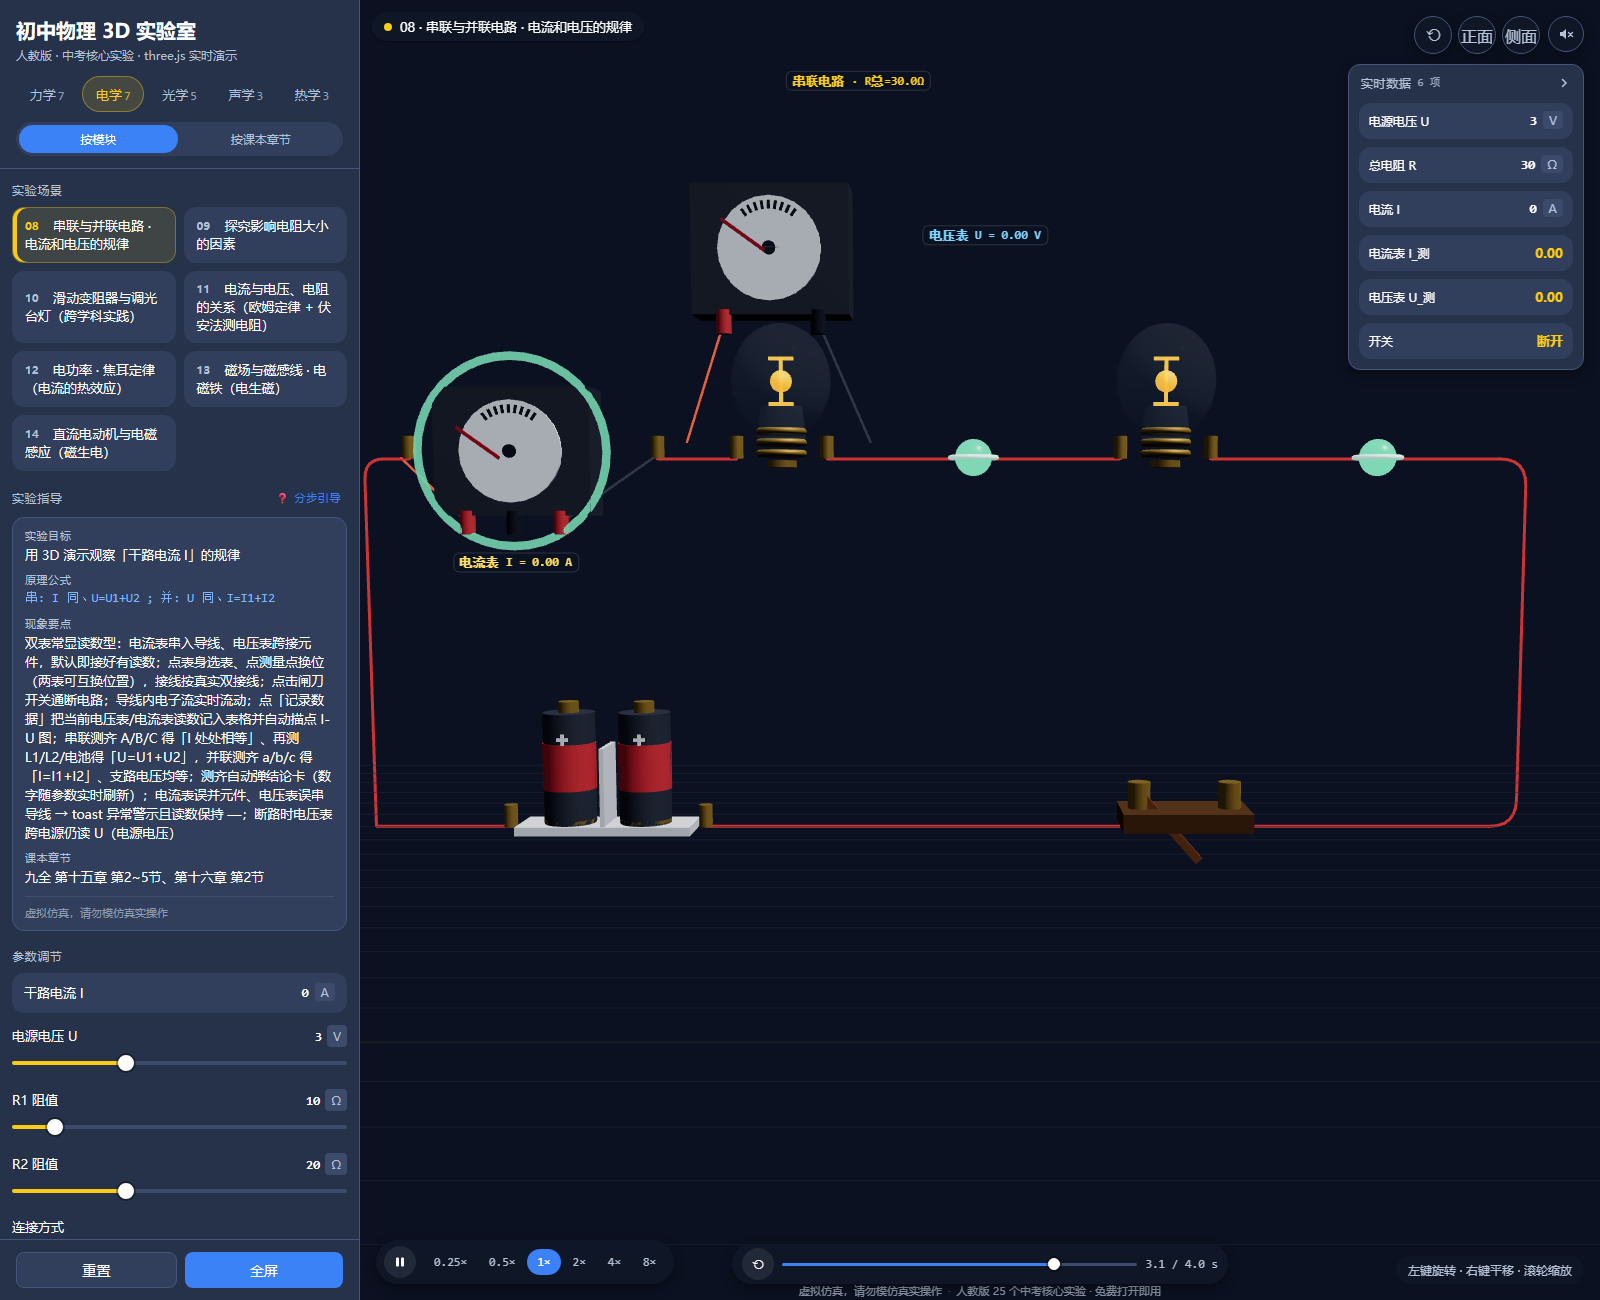
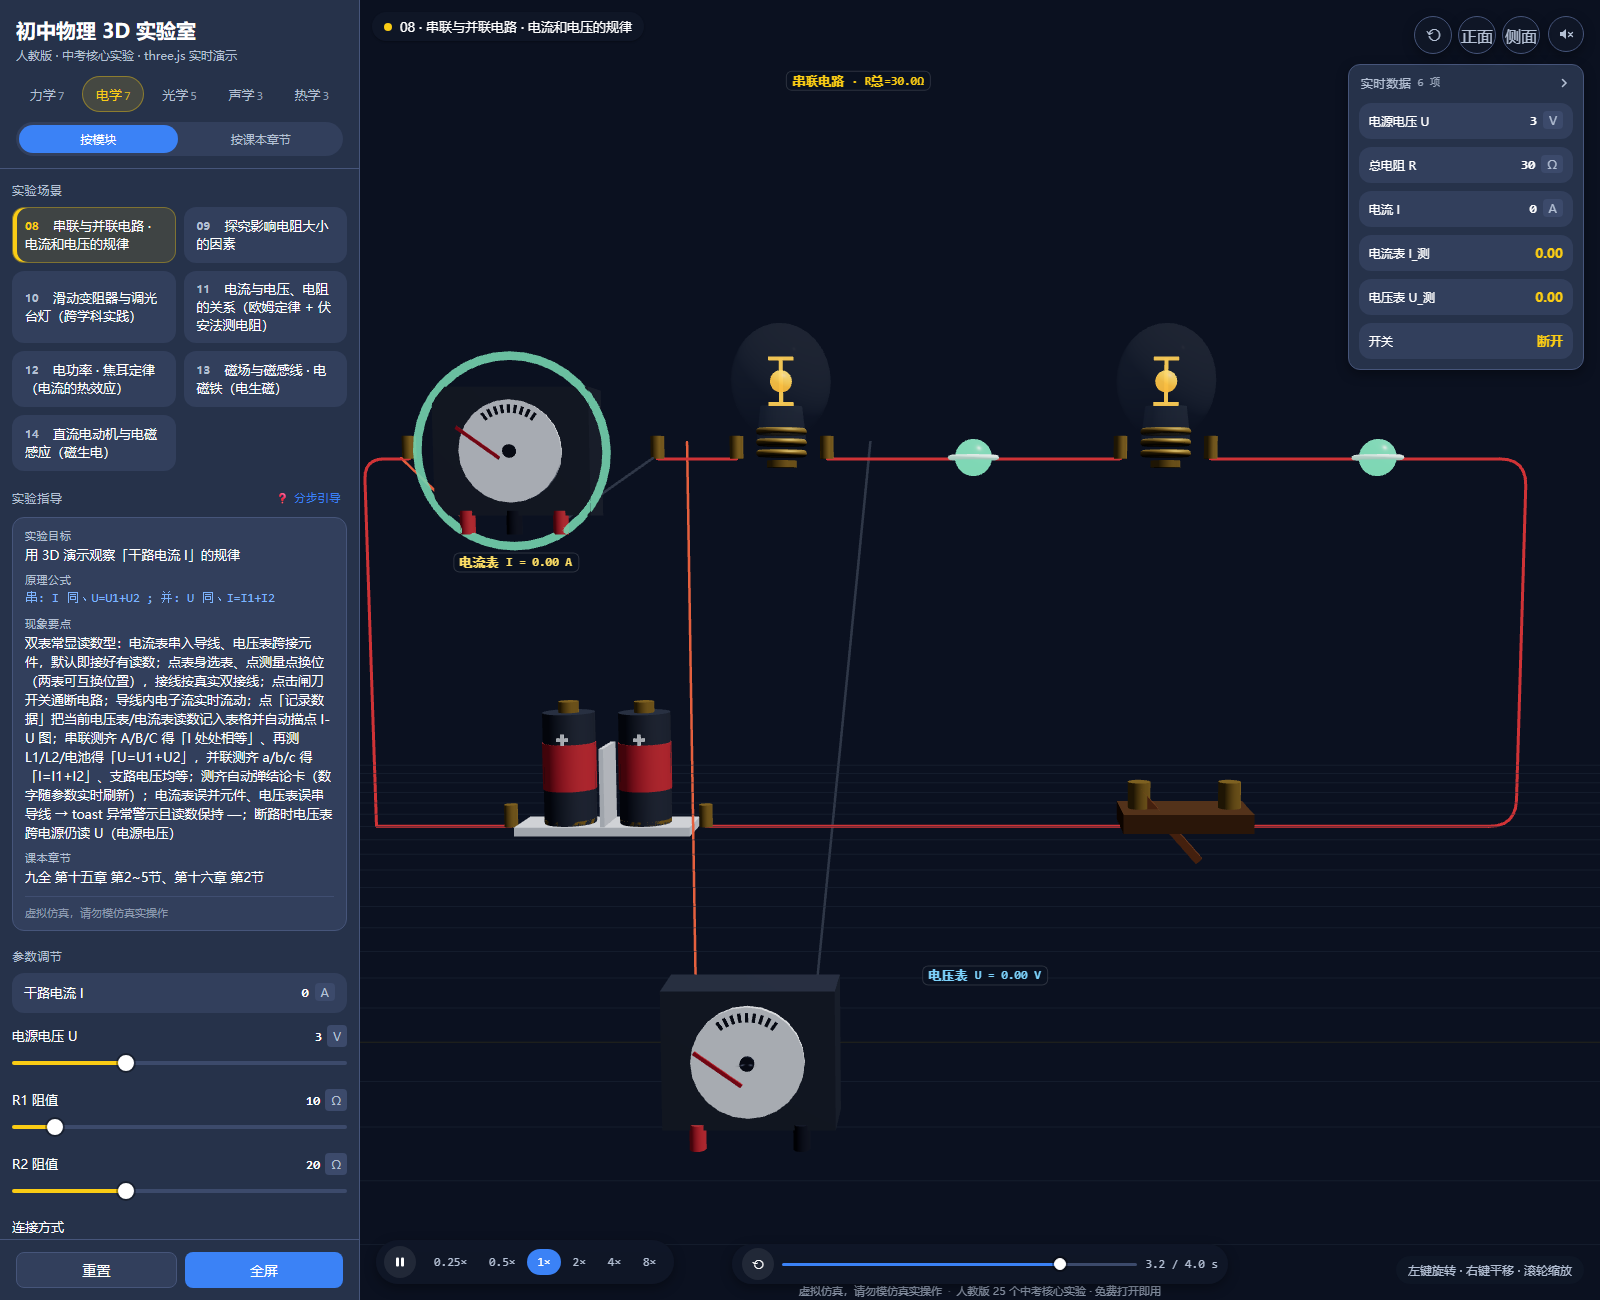
D1(08) voltmeter placement: body stands on bench in front of circuit (y=0.34,z=1.10), leads span component terminals; probe 77/77 with placement assertions

diff --git a/docs/app/exp/electricity.js b/docs/app/exp/electricity.js
@@ -248,10 +248,10 @@ const D1 = {
     if (c) return { bodyX: c.cx, bodyY: c.y + 0.02, bodyZ: 0.22, ends: [new THREE.Vector3(c.cx - 0.55, c.y, 0.1), new THREE.Vector3(c.cx + 0.55, c.y, 0.1)] };
     if (slot === 'batt') {
       const b = this.battG.position;
-      return { bodyX: b.x, bodyY: 2.35, bodyZ: 0.22, ends: [new THREE.Vector3(b.x - 0.46, 1.54, 0.1), new THREE.Vector3(b.x + 0.46, 1.54, 0.1)] };
+      return { bodyX: b.x, bodyY: 0.34, bodyZ: 1.10, ends: [new THREE.Vector3(b.x - 0.46, 1.54, 0.1), new THREE.Vector3(b.x + 0.46, 1.54, 0.1)] };
     }
     const g = slot === 'L1' ? this.bulb1G : this.bulb2G;
-    return { bodyX: g.position.x, bodyY: g.position.y + 0.85, bodyZ: 0.22, ends: [new THREE.Vector3(g.position.x - 0.40, g.position.y + 0.06, 0.1), new THREE.Vector3(g.position.x + 0.40, g.position.y + 0.06, 0.1)] };
+    return { bodyX: g.position.x, bodyY: 0.34, bodyZ: 1.10, ends: [new THREE.Vector3(g.position.x - 0.40, g.position.y + 0.06, 0.1), new THREE.Vector3(g.position.x + 0.40, g.position.y + 0.06, 0.1)] };
   },
   _layoutMeters() {
     ['amp', 'vol'].forEach(which => {

diff --git a/release/physics-3d-lab/exp/electricity.js b/release/physics-3d-lab/exp/electricity.js
@@ -248,10 +248,10 @@ const D1 = {
     if (c) return { bodyX: c.cx, bodyY: c.y + 0.02, bodyZ: 0.22, ends: [new THREE.Vector3(c.cx - 0.55, c.y, 0.1), new THREE.Vector3(c.cx + 0.55, c.y, 0.1)] };
     if (slot === 'batt') {
       const b = this.battG.position;
-      return { bodyX: b.x, bodyY: 2.35, bodyZ: 0.22, ends: [new THREE.Vector3(b.x - 0.46, 1.54, 0.1), new THREE.Vector3(b.x + 0.46, 1.54, 0.1)] };
+      return { bodyX: b.x, bodyY: 0.34, bodyZ: 1.10, ends: [new THREE.Vector3(b.x - 0.46, 1.54, 0.1), new THREE.Vector3(b.x + 0.46, 1.54, 0.1)] };
     }
     const g = slot === 'L1' ? this.bulb1G : this.bulb2G;
-    return { bodyX: g.position.x, bodyY: g.position.y + 0.85, bodyZ: 0.22, ends: [new THREE.Vector3(g.position.x - 0.40, g.position.y + 0.06, 0.1), new THREE.Vector3(g.position.x + 0.40, g.position.y + 0.06, 0.1)] };
+    return { bodyX: g.position.x, bodyY: 0.34, bodyZ: 1.10, ends: [new THREE.Vector3(g.position.x - 0.40, g.position.y + 0.06, 0.1), new THREE.Vector3(g.position.x + 0.40, g.position.y + 0.06, 0.1)] };
   },
   _layoutMeters() {
     ['amp', 'vol'].forEach(which => {

diff --git a/release/physics-3d-lab/sw.js b/release/physics-3d-lab/sw.js
@@ -1,5 +1,5 @@
 /* Service Worker：整站本地缓存 —— 打开过一次后，全部资源走本地缓存，秒开、断网也能用。
- * 版本号 5aafea0 由 tools/make-release.ps1 在发布时替换为 git 短哈希：
+ * 版本号 854c6c4 由 tools/make-release.ps1 在发布时替换为 git 短哈希：
  * 每次发布自动换缓存名；新 SW 安装完成后清掉旧缓存，保证新旧版本绝不混用。
  * 策略（为发布一致性 + 跨境提速而设计）：
  *   - 安装：容错 precache 核心清单（某项失败不影响整体安装），skipWaiting 立即接管
@@ -8,7 +8,7 @@
  *     「新 HTML + 旧 JS」的混合状态（发布后第一次打开仍是旧版，刷新一次即新版）
  *   - 其他同源 GET：cache-first，miss 才走网络并写入缓存
  */
-const VERSION = '5aafea0';
+const VERSION = '854c6c4';
 const CACHE = 'phlab-' + VERSION;
 
 const PRECACHE = [

diff --git a/release/physics-3d-lab/index.html b/release/physics-3d-lab/index.html
@@ -4,7 +4,7 @@
 <meta charset="utf-8">
 <meta name="viewport" content="width=device-width, initial-scale=1">
 <title>初中物理 3D 可视化实验室</title>
-<meta name="build-version" content="5aafea0">
+<meta name="build-version" content="854c6c4">
 <link rel="icon" href="data:,">
 <script type="importmap">
 { "imports": { "three": "./vendor/three.module.js", "three/addons/": "./vendor/addons/" } }

diff --git a/docs/app/ui-probe-report.md b/docs/app/ui-probe-report.md
@@ -1,6 +1,6 @@
 # UI→引擎通路探针报告
 
-时间：2026-11-26T07:30:23.734Z
+时间：2026-11-26T08:02:28.844Z
 方法：包裹每个实验的 exp.onParam 计数；滑杆用原生 input 事件、枚举用真实点击驱动；每控件触发后等 2 帧再读计数。
 
 | 实验 | 控件 | 类型 | onParam 送达 | 判定 |
